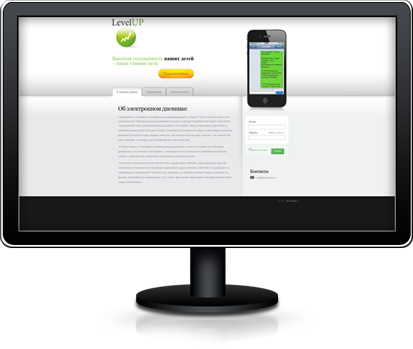
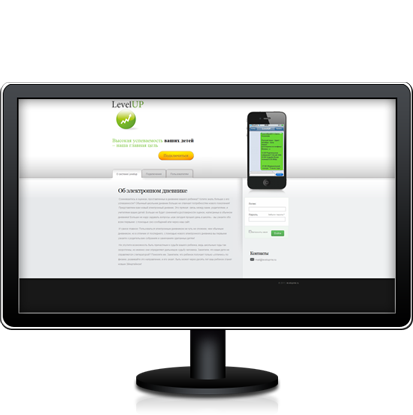
* BUGFIX: скорректировано отображение iphone / monitor / nokia

diff --git a/application/views/layout.php b/application/views/layout.php
@@ -80,9 +80,9 @@ $ie6 = $ci->agent->is_browser('Internet Explorer') && (int)$ci->agent->version()
 <div id="sidebar">
 <? if(!$SHORT_VIEW && !$ie6): ?>
 <div id="imageslider">
-<div style=""><img src="<?= base_url(); ?>styles/images/iphone.png" style="width: 202px; height: 430px; margin-top: -400px; margin-left: 20px; margin-bottom: -35px;" /></div>
-<div style="display:none"><img src="<?= base_url(); ?>styles/images/monitor.png" style="width: 413px; height: 349px; margin-top: -320px; margin-left: -85px; margin-bottom: -56px;" /></div>
-<div style="display:none"><img src="<?= base_url(); ?>styles/images/nokia.png" style="width: 189px; height: 396px; margin-top: -400px; margin-left: 30px; margin-bottom: -89px;" /></div>
+<div style=""><img src="<?= base_url(); ?>styles/images/iphone.png" style="width: 202px; margin-top: -400px; margin-left: 20px; margin-bottom: 0px;" /></div>
+<div style="display:none"><img src="<?= base_url(); ?>styles/images/monitor.png" style="width: 413px; margin-top: -400px; margin-left: -85px; margin-bottom: 0px;" /></div>
+<div style="display:none"><img src="<?= base_url(); ?>styles/images/nokia.png" style="width: 189px; margin-top: -400px; margin-left: 30px; margin-bottom: 0px;" /></div>
 </div>
 <? endif; ?>
 
